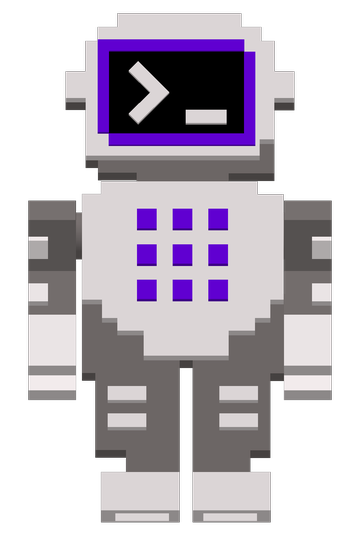
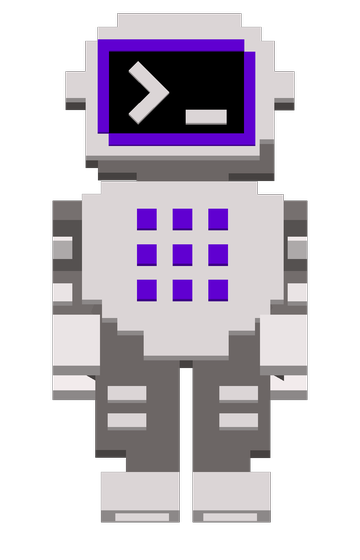
fix: arms stay seated during walk (deeper socket inset + gentler arm swing)
The left arm gapped from the body at back-swing because the shoulder pivot sat at
the socket surface. Seat arms 5.1mm into the body (NUDGE 1.2->-1.0) and reduce
arm swing 0.35->0.22 rad across viewer, GLB walk clip, and the GIF renderer.

Changed region(s): [[0.0611, 0.3339, 0.275, 0.7286], [0.7944, 0.3339, 0.9472, 0.7286], [0.7028, 0.5464, 0.7944, 0.7286]]

diff --git a/main.js b/main.js
@@ -244,8 +244,8 @@ function animate() {
     const s = Math.sin(phase);
     legRight.rotation.x =  s * 0.5 + tuck * 0.5;
     legLeft.rotation.x  = -s * 0.5 + tuck * 0.5;
-    armRight.rotation.x = -s * 0.35 - tuck * 0.6;
-    armLeft.rotation.x  =  s * 0.35 - tuck * 0.6;
+    armRight.rotation.x = -s * 0.22 - tuck * 0.6;
+    armLeft.rotation.x  =  s * 0.22 - tuck * 0.6;
     if (ui.spin) {
       yaw += dt * 0.6;                       // optional turntable
       robot.rotation.y = yaw;

diff --git a/skills/threemf-geometry/scripts/build_glb.py b/skills/threemf-geometry/scripts/build_glb.py
@@ -158,8 +158,8 @@ def add_rot_channel(node, amp, phase_shift=0.0):
 
 add_rot_channel(pivot_node['leg_right'],  0.5, 0.0)
 add_rot_channel(pivot_node['leg_left'],   0.5, np.pi)     # opposite phase
-add_rot_channel(pivot_node['arm_right'], 0.35, np.pi)     # counter-swing
-add_rot_channel(pivot_node['arm_left'],  0.35, 0.0)
+add_rot_channel(pivot_node['arm_right'], 0.22, np.pi)     # counter-swing (gentle, stays seated)
+add_rot_channel(pivot_node['arm_left'],  0.22, 0.0)
 
 animations = [{'name': 'Walk', 'channels': channels, 'samplers': samplers}]
 

diff --git a/skills/threemf-geometry/scripts/build_codernaught.py b/skills/threemf-geometry/scripts/build_codernaught.py
@@ -43,7 +43,7 @@ SLICE = {'2'}                       # the only crossing part to cut (gray shell)
 
 # Arm mating (from circle-fit detection)
 ARM_JOINT = np.array([-4.132, 5.876, 0.0])   # arm shoulder circle center (local, axis Z)
-SOCKET_NUDGE = 1.2                            # mm outward so flat faces aren't coplanar
+SOCKET_NUDGE = -1.0                           # seat arms deeper into the socket (avoids swing gap)
 SOCKET_R = np.array([9.42 + SOCKET_NUDGE, 3.02, -0.75])
 SOCKET_L = np.array([-(9.42 + SOCKET_NUDGE), 3.02, -0.75])
 

diff --git a/skills/threemf-geometry/scripts/render_walk_gif.py b/skills/threemf-geometry/scripts/render_walk_gif.py
@@ -62,7 +62,7 @@ def render_frame(phase, yaw):
     s = math.sin(phase)
     limbrot = {
         'leg_right': Rx(s*0.5), 'leg_left': Rx(-s*0.5),
-        'arm_right': Rx(-s*0.35), 'arm_left': Rx(s*0.35), 'torso': np.eye(3),
+        'arm_right': Rx(-s*0.22), 'arm_left': Rx(s*0.22), 'torso': np.eye(3),
     }
     body = Ry(yaw)
     bob = abs(s) * 0.6